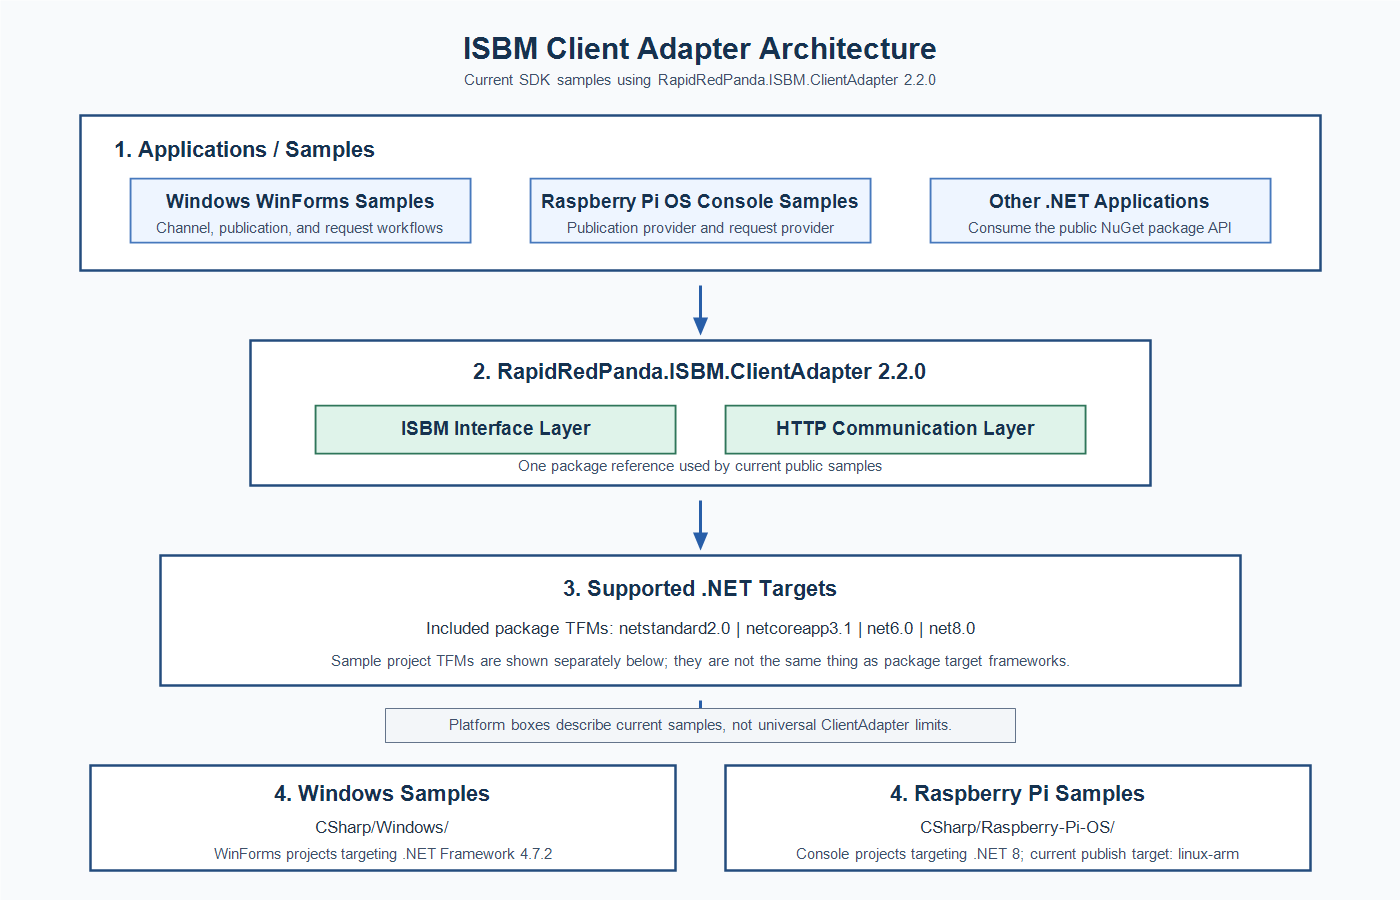
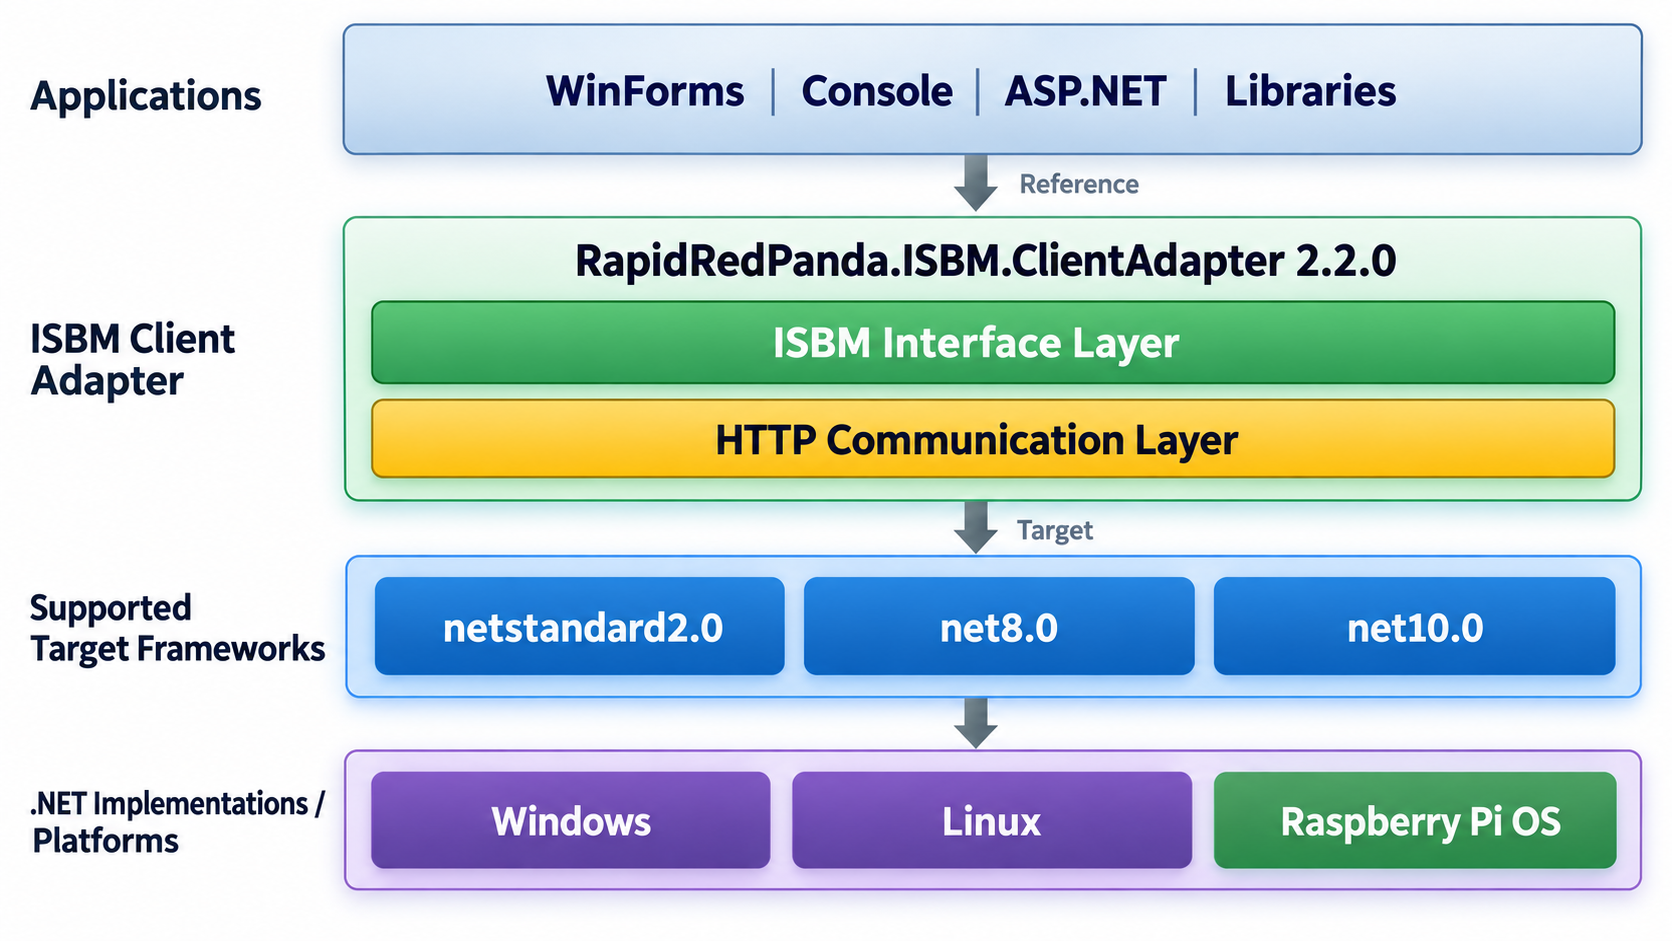
Modernize SDK README

diff --git a/README.md b/README.md
@@ -1,132 +1,205 @@
 # ISBM-2.0-Client-SDK
 
-Open Industrial Interoperability Ecosystem (OIIE) a vendor-neutral, interoperable ecosystem to tackle industry-wide data silo challenges. It enables a cluster of IoT/IoE devices and processes to communicate in an interoperable and scalable manner. This Software Development Toolkit is designed to assist anyone interested in trying out the Open Industrial Interoperability Ecosystem (OIIE) with easy to follow examples. 
+## Overview
+
+The ISBM 2.0 Client SDK provides C# samples for exploring the Open Industrial Interoperability Ecosystem (OIIE), the ISA-95 Message Service Model / ISBM 2.0, Publication-Subscription messaging, and Request-Response messaging.
+
+The current samples use the `RapidRedPanda.ISBM.ClientAdapter` 2.2.0 NuGet package.
 
 ## Contents
   
-   1. [Objectives](#Objectives)
-   2. [ISBM Client Adapter Architecture](#ISBM-Client-Adapter-Architecture-Diagram)
-   3. [ISBM Message Models](#ISBM-Message-Models)
-   4. [Use Cases](#Use-Cases)
-   5. [Project Information](#Project-Information)
-   6. [Before Running the Program](#Before-Running-the-Program)
-   7. [Useful Links](#Useful-Links)
-   8. [Quick Reference](#Quick-Reference)
+1. [Overview](#overview)
+2. [Objectives](#objectives)
+3. [ISBM Client Adapter Architecture](#isbm-client-adapter-architecture)
+4. [Current SDK Contents](#current-sdk-contents)
+5. [Sample Platforms](#sample-platforms)
+6. [ISBM Message Models](#isbm-message-models)
+7. [Publication-Subscription Model](#publication-subscription-model)
+8. [Request-Response Model](#request-response-model)
+9. [Sample Testing Topology](#sample-testing-topology)
+10. [Use Cases](#use-cases)
+11. [Before Running the Program](#before-running-the-program)
+12. [Useful Links](#useful-links)
+13. [Quick Reference](#quick-reference)
 
 ## Objectives
 
-Since OIIE involves multiple industry standards at different levels of the technology stack, it is helpful to have developer friendly OIIE programming interfaces. This SDK includes sample C# code projects that consume the RapidRedPanda.ISBM.ClientAdapter 2.2.0 NuGet package. The package includes assets for multiple .NET target frameworks, while the current public samples target Windows WinForms on .NET Framework 4.7.2 and Raspberry Pi OS console applications on .NET 8; see details in the ISBM Client Adapter Architecture Diagram. By using the adapter, you can deliver and receive CCOM messages (Common Conceptual Object Model) through ISBM services (ISA-95 Message Service Model) with just a few lines of code! It reduces the learning curve, allowing you to explore OIIE without diving into the technical details of the standards
+The SDK helps developers learn and test ISBM 2.0 communication patterns without implementing the underlying ISA-95 Message Service Model details from scratch. The samples show how Provider Applications and Consumer Applications use the ClientAdapter package to exchange CCOM messages through an ISBM Service Provider.
 
-The NuGet package [RapidRedPanda.ISBM.ClientAdapter](https://www.nuget.org/packages/RapidRedPanda.ISBM.ClientAdapter/#readme-body-tab) package is designed to handle all the details of ISBM implementations for communication with ISBM servers. The ISBM interface will be accessible through object classes that developers should find user-friendly and easy to use. This will cut down the learning curve of building ISBM-compliant devices or applications.
+`RapidRedPanda.ISBM.ClientAdapter` 2.2.0 supports multiple package target frameworks:
 
-      
-#### ISBM Client Adapter Architecture Diagram
+- `netstandard2.0`
+- `net8.0`
+- `net10.0`
 
-![ISBM Client Adapter Architecture](Documents/Images/Architecture_Diagram1.svg)
+Those package target frameworks are separate from the sample project target frameworks. The current Windows samples target .NET Framework 4.7.2, and the current Raspberry Pi OS samples target .NET 8.
+
+## ISBM Client Adapter Architecture
+
+![ISBM Client Adapter Architecture](Documents/Images/Architecture_Diagram1.png)
+
+## Current SDK Contents
+
+```text
+CSharp/
+  Windows/              WinForms samples targeting .NET Framework 4.7.2
+  Raspberry-Pi-OS/      Console samples targeting .NET 8
+Documents/              Architecture, flow diagrams, and use-case documentation
+```
+
+The C# samples are aligned with the released ClientAdapter package:
+
+```xml
+<PackageReference Include="RapidRedPanda.ISBM.ClientAdapter" Version="2.2.0" />
+```
+
+The samples consume the public ClientAdapter API from NuGet. They do not require an adjacent ClientAdapter source repository or locally copied ClientAdapter DLLs.
+
+## Sample Platforms
+
+### Windows Samples
+
+Path: `CSharp/Windows/`
+
+Technology: WinForms projects targeting .NET Framework 4.7.2.
+
+Sample areas:
+
+- Channel Management
+- Publication Provider
+- Publication Consumer
+- Request Provider
+- Request Consumer
+
+### Raspberry Pi OS Samples
+
+Path: `CSharp/Raspberry-Pi-OS/`
+
+Technology: console projects targeting .NET 8.
+
+Sample areas:
+
+- Publication Provider
+- Request Provider
+
+The current Raspberry Pi OS publish profiles use `linux-arm`. This is the current sample publish target, not a universal limitation of the ClientAdapter package.
 
 ## ISBM Message Models
 
-An ISBM message bus is a communication platform that allows different devices or processes to communicate with each other. It serves as a centralized hub where messages are sent and received by various systems, enabling asynchronous and decoupled communication. This architecture facilitates scalability, flexibility, and interoperability within complex cluster. ISBM 2.0 (ISA-95 Message Service Model) defines two message bus models: the [publication-subscribe (pub/sub)](#ISBM-Message-Models) model and the [request-response)](#Request-Response-model) model.
+An ISBM message bus allows different devices, applications, and processes to exchange messages through a shared service. It supports asynchronous, decoupled communication so systems can interoperate without direct point-to-point dependencies.
 
-### Publication-Subscription model
+ISBM 2.0 defines two primary messaging models:
 
-In this model, providers send messages to a central message broker (ISBM Service Provider), and consumers receive messages based on their interests or subscriptions to specific channels and topics.
+- Publication-Subscription
+- Request-Response
+
+## Publication-Subscription Model
+
+In this model, Provider Applications send messages to an ISBM Service Provider, and Consumer Applications receive messages based on subscriptions to specific Publication Channels and Topics.
 
 #### Breakdown of the key components and concepts of the publication-subscription message bus model
 
 #### Provider Applications:
 
-Provider applications are devices or systems that generate and send messages to the ISBM aervice provider. They produce messages related to specific topics or events without knowing who will receive them.
+Provider Applications are devices or systems that generate and send messages to the ISBM Service Provider. They produce messages related to specific Topics or events without knowing which Consumer Applications will receive them.
 
 #### Consumer Applications:
 
-Consumer applications are devices or systems that receive messages from the the ISBM aervice provider based on their subscriptions to specific topics and channels. They express interest in receiving messages about particular topics or events.
+Consumer Applications are devices or systems that receive messages from the ISBM Service Provider based on subscriptions to specific Topics and Publication Channels. They express interest in receiving messages about particular Topics or events.
 
 #### ISBM Service Provider:
 
-The ISBM service provider acts as an intermediary between provider applications and consumer applications. It receives messages from publishers and distributes them to consumers based on their subscriptions. The ISBM aervice provider manages the routing and delivery of messages, ensuring that each consumer application receives the relevant messages according to its subscriptions.
+The ISBM Service Provider acts as an intermediary between Provider Applications and Consumer Applications. It receives messages from providers and distributes them to consumers based on their subscriptions. The ISBM Service Provider manages message routing and delivery so each Consumer Application receives the relevant messages according to its subscriptions.
 
 #### Publication Channels:
 
-A publication channel is a logical conduit which published messages flow between different devices or systems within a cluster. It serves as a means of organizing and directing the transmission of messages, providing a structured communication conduit for exchanging information. Publication channels help to categorize published messages and ensure that they reach their intended consumers efficiently. In messaging systems, channels play a crucial role in facilitating communication, enabling devices and systems to interact and share data seamlessly across distributed environments while maintaining scalability and flexibility in message routing and delivery.
+A Publication Channel is a logical conduit through which published messages flow between devices or systems within a cluster. It organizes and directs message transmission, helping messages reach intended consumers efficiently. Publication Channels support scalable and flexible message routing across distributed environments.
 
 #### Topics:
 
-A topic within the channel represents a distinct subject or category of messages that are published and subscribed to by devices or systems within a cluster. It serves as a container for related messages, organizing them based on common themes or events. Topics enable consumers to express interest in specific types of messages and selectively consume relevant information. Messages published to a topic are broadcasted to all subscribers interested in that topic, facilitating asynchronous communication and event-driven interactions
+A Topic within a Publication Channel represents a distinct subject or message category. Topics organize related messages around common themes or events and allow Consumer Applications to subscribe to the information they need. Messages published to a Topic are delivered to subscribers interested in that Topic, supporting asynchronous communication and event-driven interactions.
 
 #### ISBM Publication-Subscription Message Flow Diagram
 
-![image](/Documents/Images/Publication_Flow.jpg)
+![ISBM Publication-Subscription Message Flow](Documents/Images/Publication_Flow.png)
 
 #### Subscription Mechanism:
 
-Devices or systems register their interest in receiving messages related to specific channels and Topics by subscribing to them. Subscriptions can be dynamic, allowing subscribers to subscribe or unsubscribe from channel at any time.
+Devices or systems register interest in messages for specific Publication Channels and Topics by subscribing to them. Subscriptions can be dynamic, allowing subscribers to subscribe or unsubscribe from a channel at any time.
 
 #### Decoupling:
 
-The publication-subscription model enables loose coupling between providers and consumers. Provider and consumer applications do not need to be aware of each other's existence, promoting scalability, flexibility, and modularity in distributed systems.
+The Publication-Subscription model enables loose coupling between Provider Applications and Consumer Applications. Providers and consumers do not need to be aware of each other's existence, which promotes scalability, flexibility, and modularity in distributed systems.
 
 #### Asynchronous Communication:
 
-Communication between providers and consumers is asynchronous. Providers produce messages at their own pace, and consumers consume messages as they become available in the message bus.
+Communication between providers and consumers is asynchronous. Providers produce messages at their own pace, and consumers receive messages as they become available in the message bus.
 
 #### Scalability and Flexibility:
 
-The publication-subscription model is highly scalable and flexible, allowing systems to handle large volumes of messages and accommodate dynamic changes in the number of providers and consumers.
+The Publication-Subscription model allows systems to handle large volumes of messages and accommodate dynamic changes in the number of providers and consumers.
 
-### Request-Response model
+## Request-Response Model
 
-In this model, consumers send request messages to a central message broker (ISBM Service Provider), and providers receive request messages and provide response messages based on their services to specific channels and topics. This model is often used in client-server architectures, web services, and microservices-based applications.
+In this model, Consumer Applications send request messages through an ISBM Service Provider. Provider Applications receive request messages and send response messages based on the requested service, Request Channel, and Topic.
 
 #### Breakdown of the key components and concepts of the request-response message bus model
 
 #### Consumer Applications:
 
-The consumer applications are devices or systems that initiates communication by sending request messages to other devices or systems. A request message typically specifies the type of operation to be performed and may include parameters or data needed for the request.
+Consumer Applications are devices or systems that initiate communication by sending request messages. A request message typically specifies the operation to perform and may include parameters or data needed for the request.
 
 #### Provider Applications:
 
-The provider applications are devices or systems that receive the request messages and perform the requested operations. They processe the requests and generate corresponding response messages containing the result of the operations or any relevant data.
+Provider Applications are devices or systems that receive request messages and perform the requested operations. They process requests and generate response messages containing operation results or relevant data.
 
 #### ISBM Service Provider:
 
-The ISBM service provider acts as an intermediary between provider applications and consumer applications. It receives request messages from consumers and distributes them to providers based on their subscriptions. The ISBM aervice provider manages the routing and delivery of messages, ensuring that each provider application receives the relevant request messages according to its subscriptions. It may route request messages to the appropriate responders based on filter expression.
+The ISBM Service Provider acts as an intermediary between Consumer Applications and Provider Applications. It receives request messages from consumers and distributes them to providers based on subscriptions. The ISBM Service Provider manages routing and delivery so each Provider Application receives relevant request messages according to its subscriptions. It may route request messages to appropriate responders based on filter expressions.
 
 #### Request Channels:
 
-A request channel is a logical conduit which request and response messages flow between different devices or systems within a cluster. It serves as a means of organizing and directing the transmission of messages, providing a structured communication conduit for exchanging information. Request channels help to categorize request and response messages and ensure that they reach their intended consumers efficiently. In messaging systems, channels play a crucial role in facilitating communication, enabling devices and systems to interact and share data seamlessly across distributed environments while maintaining scalability and flexibility in message routing and delivery.
+A Request Channel is a logical conduit through which request and response messages flow between devices or systems within a cluster. It organizes and directs message transmission, helping request and response messages reach the intended applications efficiently.
 
 #### Topics:
 
-A topic within the channel represents a distinct subject or category of messages that are published and subscribed to by devices or systems within a cluster. It serves as a container for related messages, organizing them based on common themes or events. Topics enable consumers to express interest in specific types of messages and selectively consume relevant information. Messages published to a topic are broadcasted to all subscribers interested in that topic, facilitating asynchronous communication and event-driven interactions
+A Topic within a Request Channel represents a distinct subject or message category. Topics organize related request and response messages so applications can exchange information for a specific service or workflow.
 
 #### ISBM Request-Response Message Flow Diagram
 
-![image](/Documents/Images/Request_Response_Flow.jpg)
+![ISBM Request-Response Message Flow](Documents/Images/Request_Response_Flow.png)
 
 #### Subscription Mechanism:
 
-Devices or systems register their interest in receiving request messages related to specific channels and topics by subscribing to them. Subscriptions can be dynamic, allowing subscribers to subscribe or unsubscribe from channel at any time.
+Devices or systems register interest in receiving request messages for specific Request Channels and Topics by subscribing to them. Subscriptions can be dynamic, allowing subscribers to subscribe or unsubscribe from a channel at any time.
 
 #### Decoupling:
 
-The request-response model enables loose coupling between consumers and providers. Consumer and provider applications do not need to be aware of each other's existence, promoting scalability, flexibility, and modularity in distributed systems.
+The Request-Response model enables loose coupling between Consumer Applications and Provider Applications. Consumers and providers do not need to be aware of each other's existence, which promotes scalability, flexibility, and modularity in distributed systems.
 
 #### Asynchronous Communication:
 
-Unlike typical request-response model, ISBM service provider communications between consumers and providers is asynchronous. The consumer does not wait for a response from the provider(s) before proceeding with other processes. Providers produce response messages at their own pace, and consumers consume response messages as they become available in the message bus.
+Unlike a typical request-response model, ISBM Service Provider communication between consumers and providers is asynchronous. The Consumer Application does not wait for a response from the Provider Application before proceeding with other processing. Providers produce response messages at their own pace, and consumers receive response messages as they become available in the message bus.
 
 #### Request Message:
 
-The request message contains information about the operation to be performed, including any necessary parameters or data. It is sent by the consumer to the provider to initiate the communication.
+The request message contains information about the operation to perform, including any necessary parameters or data. It is sent by the consumer to initiate communication with a provider.
 
 #### Response Message:
 
-The response message contains the result of the operation performed by the provider. It is sent by the provider to the consumer as a reply to the request message.
+The response message contains the result of the operation performed by the provider. It is sent by the provider as a reply to the request message.
 
 #### Scalability and Flexibility:
 
-The ISBM request-response model is in asynchronous mode, which means that the sender of a request message does not need to wait for an immediate response from the provider. This asynchronous nature helps to avoid some of the latency and performance overhead associated with synchronous request-response models. In a synchronous model, the sender typically waits for a response from the provider before continuing with further processing, which can introduce delays and impact system performance, especially in distributed environments or when dealing with high message volumes. However, in an asynchronous model like ISBM, the sender can continue with other tasks or processes while waiting for the response, which can help improve system efficiency and responsiveness.
+The ISBM Request-Response model is asynchronous, which means the sender of a request message does not need to wait for an immediate response from the provider. This helps reduce latency and performance overhead in distributed environments or high-volume messaging scenarios. The sender can continue other work while waiting for the response, improving system efficiency and responsiveness.
+
+## Sample Testing Topology
+
+The flow diagrams above show protocol and message sequence. The diagram below shows practical sample/test topology.
+
+### Publication-Subscription Client Testing
+
+![Publication-Subscription Client Testing](Documents/Images/Publication_Subscription_Client_Testing.png)
 
 ### Use Cases
 
@@ -134,31 +207,16 @@ The ISBM request-response model is in asynchronous mode, which means that the se
 #### 2. Example of using Request-Response model:  [Fleet Management System for Logistics](Documents/Use_Cases/Fleet_Management.md)
 #### 3. Example of using both Publication-Subscription and Request-Response models:  [Flood Management System](Documents/Use_Cases/Flood-Management.md)
 
-### Project Information
+## Before Running the Program
 
-The C# toolkit samples in this repository are aligned with the released NuGet package:
+1. Make an ISBM 2.0-compatible server available.
+2. Restore NuGet dependencies. Visual Studio can restore automatically, or you can run `dotnet restore` / MSBuild restore for the selected project.
+3. Copy `Configs-Example.json` to `Configs.json` for the sample you want to run.
+4. Update `hostName`, `channelId`, `topic`, `authentication`, `userName`, and `password`.
+5. Keep `Configs.json` local; do not commit it.
+6. Build and run the desired sample.
 
-```xml
-<PackageReference Include="RapidRedPanda.ISBM.ClientAdapter" Version="2.2.0" />
-```
-
-The samples are intended to show how real applications consume the public ClientAdapter API from NuGet. They do not require an adjacent ClientAdapter source repository or locally copied ClientAdapter DLLs.
-
-Included sample applications:
-
-1. Windows desktop Provider Publication sample
-2. Windows desktop Consumer Publication sample
-3. Windows desktop Consumer Request sample
-4. Windows desktop Provider Request sample
-5. Windows desktop Channel Management sample
-6. Raspberry Pi Publication sample
-7. Raspberry Pi Request sample
-
-The Windows 10 IoT Core / UWP sample has been dropped from the active sample set.
-
-### Before Running the Program
-
-Restore NuGet packages before building or running a sample. Visual Studio can restore automatically, or you can run `dotnet restore` / MSBuild restore for the selected project.
+`localhost` means the machine running the sample. If the sample runs on Raspberry Pi and the ISBM server runs on another machine, use a reachable hostname or IP address instead.
 
 The desktop Provider Publication, Consumer Request, and Provider Request samples include a **Media Type** field for posting payloads:
 
@@ -167,20 +225,20 @@ The desktop Provider Publication, Consumer Request, and Provider Request samples
 - Enter `text/plain` to send plain text exactly as typed.
 - Enter `application/json` to send JSON text as string content. Blank and `application/json` are intentionally different modes.
 
-### Useful Links
+## Useful Links
 
-#### Standard Organizations
+### Standard Organizations
    1. [OpenO&M](https://openoandm.org/)
    2. [MIMOSA](https://www.mimosa.org/)
    3. [International Society of Automation](https://www.isa.org/)
    4. [OAGi](https://oagi.org/)
 
-#### Development Tools
+### Development Tools
    1. [Visual Studio 2022](https://visualstudio.microsoft.com/downloads/)
    2. [RapidRedPanda.ISBM.ClientAdapter](https://www.nuget.org/packages/RapidRedPanda.ISBM.ClientAdapter/#readme-body-tab)
    
 
-### Quick Reference
+## Quick Reference
 
    1. OIIE - [OpenO&M Open Industrial Interoperability Ecosystem](https://www.mimosa.org/open-industrial-interoperability-ecosystem-oiie/)
    2. ISBM - [International Society of Automation ISA-95 Message Service Model](https://openoandm.org/files/standards/ISBM-2.0.pdf)
